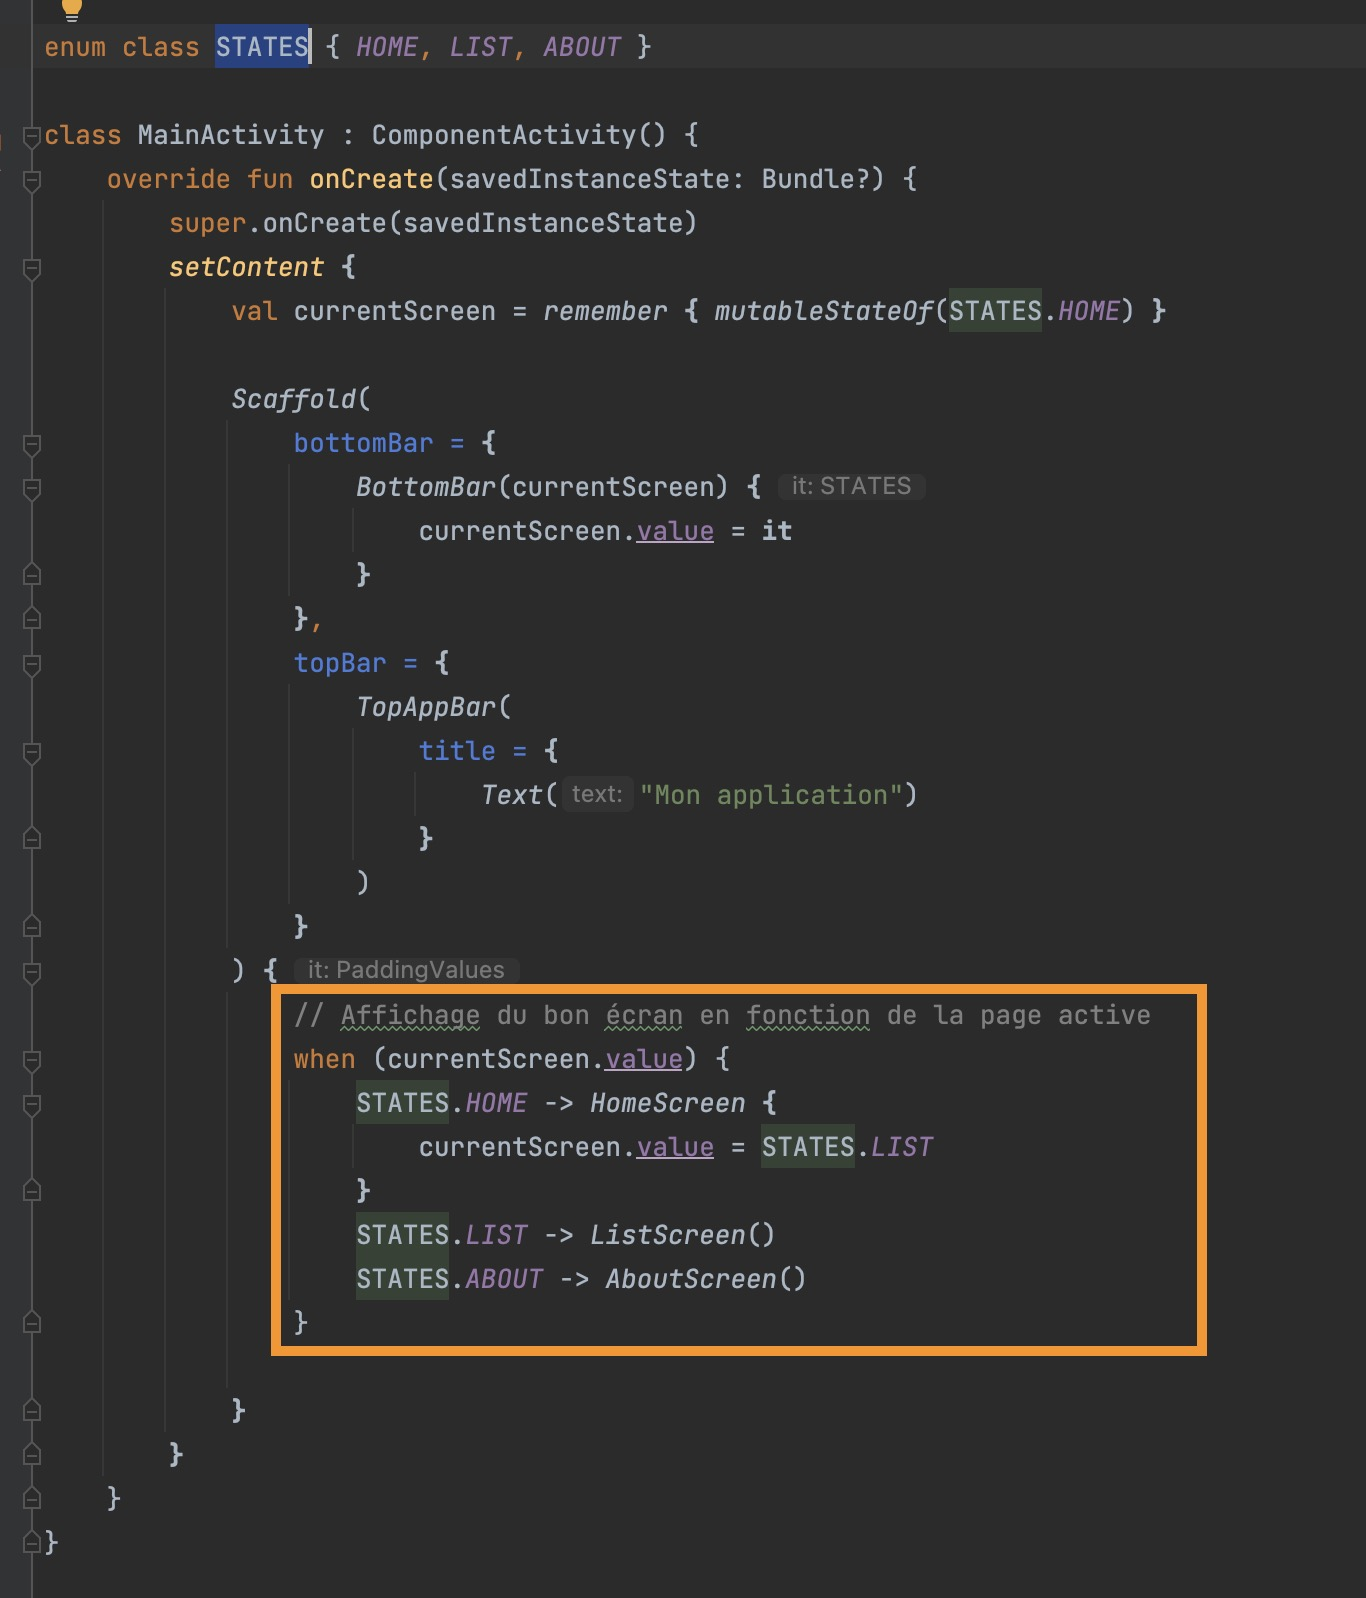
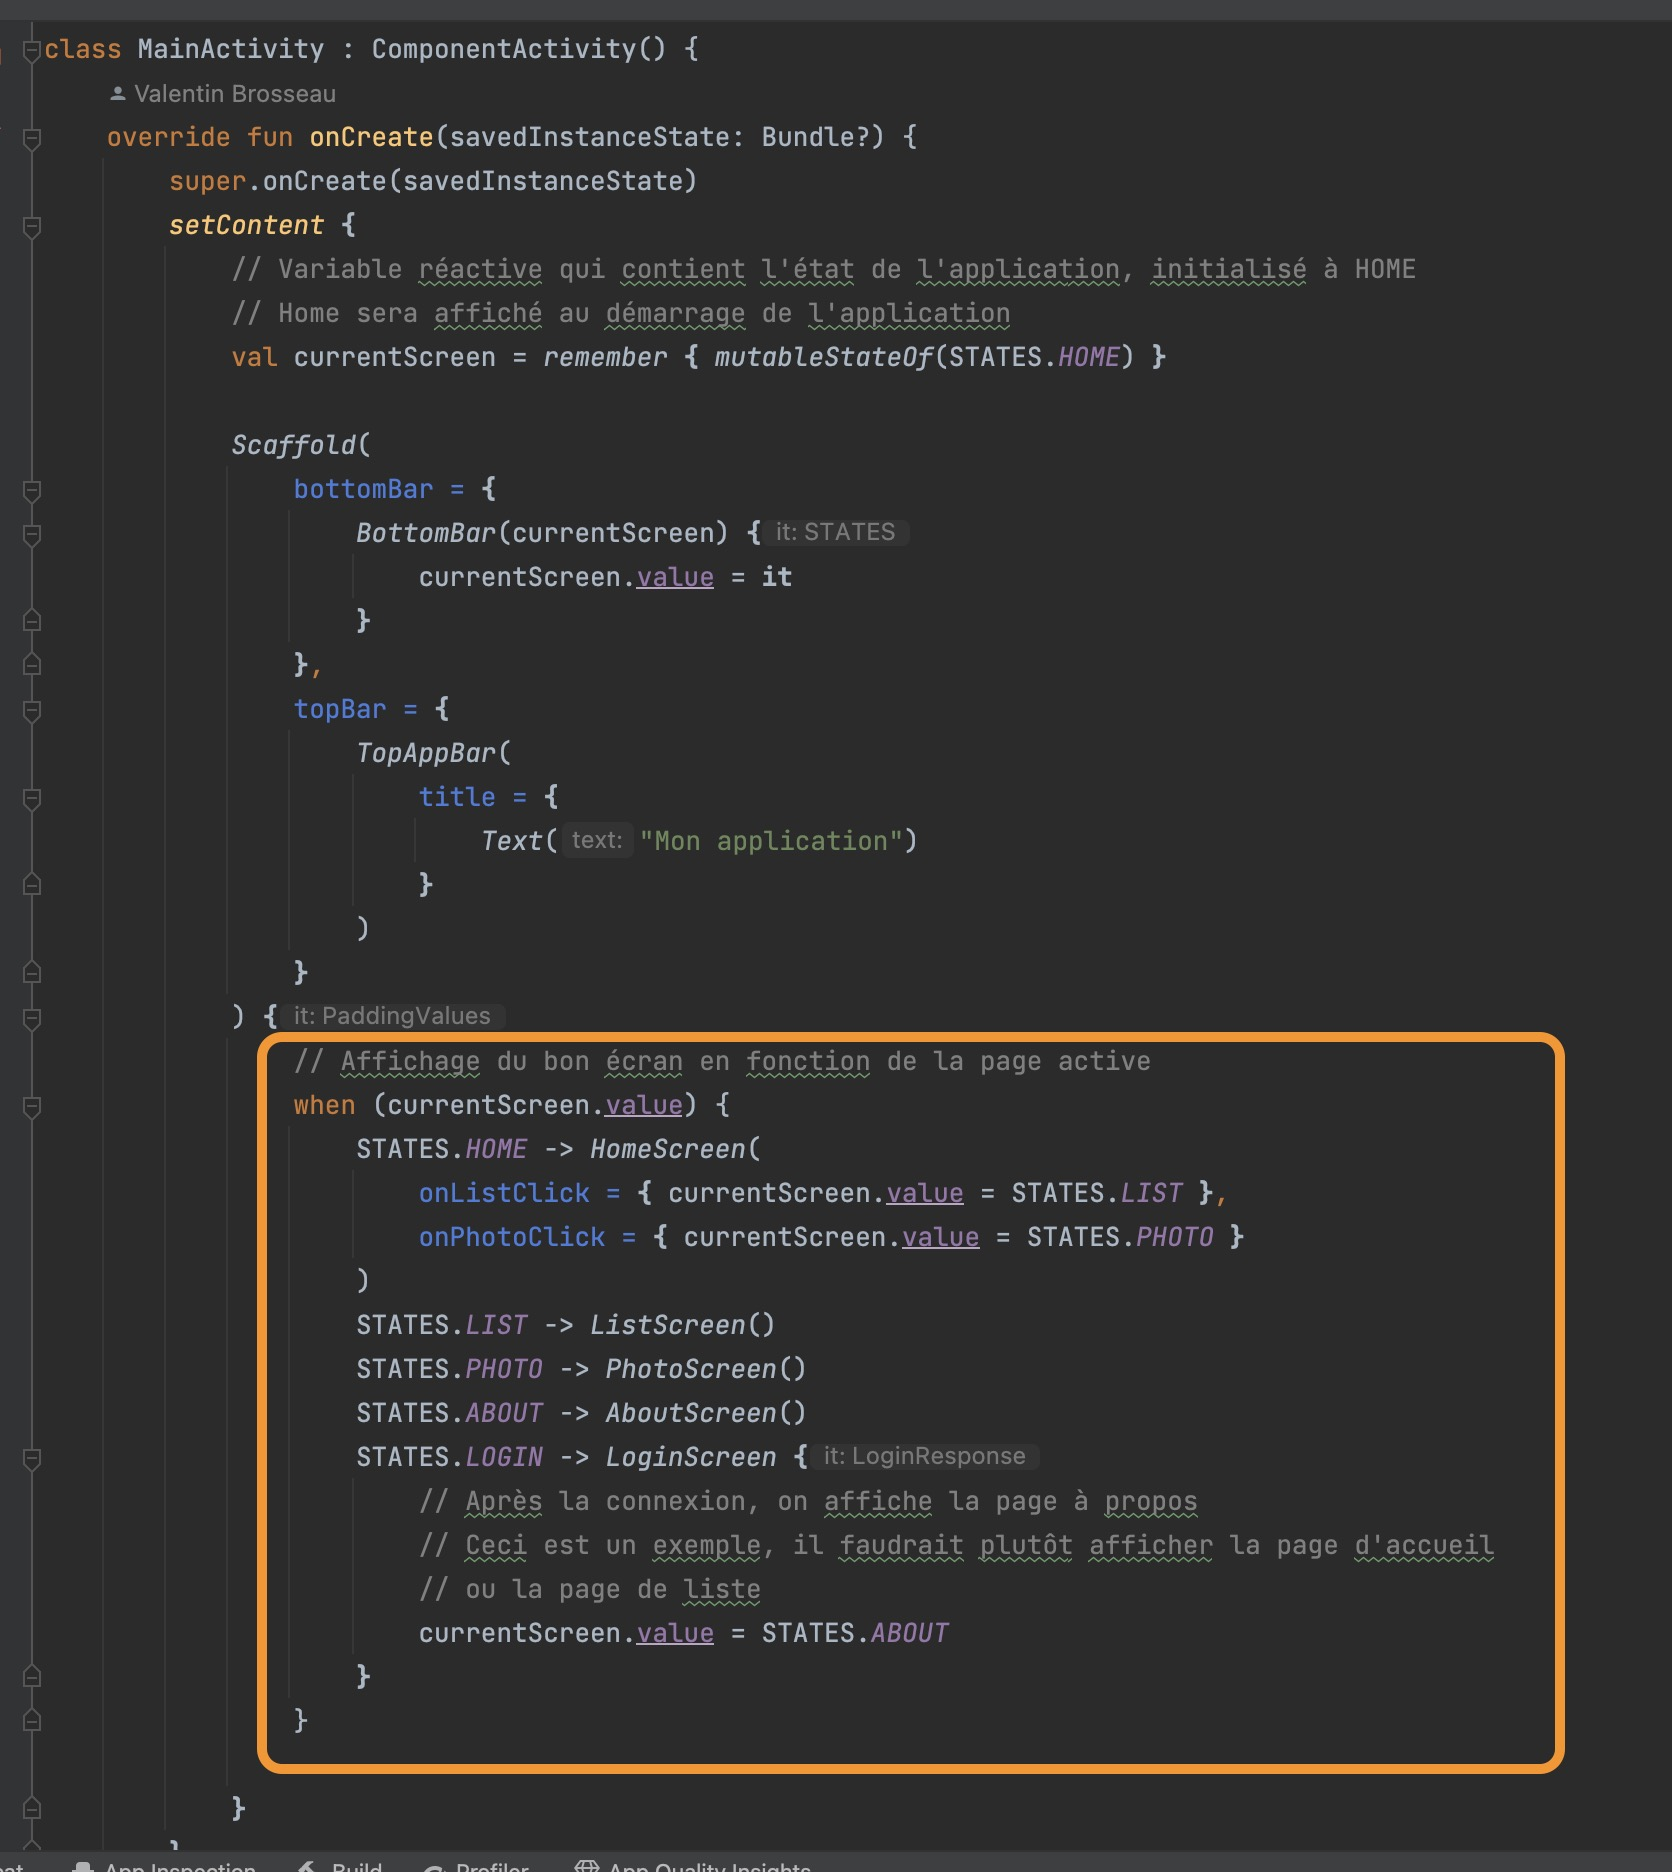
Ajout exemple connexion

diff --git a/tp/android/compose/dirty-api.md b/tp/android/compose/dirty-api.md
@@ -29,7 +29,7 @@ Cette application contient les éléments suivants :
 - Une liste de photos, les données sont récupérées depuis une API (fichier `ApiService.kt`). Les photos sont affichées en utilisant la librairie Coil.
 - Une page à propos affiche des informations sur l'application.
 
-<iframe width="560" height="315" src="https://www.youtube.com/embed/hWCIqjsTJiw" title="YouTube video player" frameborder="0" allow="accelerometer; autoplay; clipboard-write; encrypted-media; gyroscope; picture-in-picture" allowfullscreen></iframe>
+<iframe width="560" height="315" src="https://www.youtube.com/embed/Gs51sngU-3c" title="YouTube video player" frameborder="0" allow="accelerometer; autoplay; clipboard-write; encrypted-media; gyroscope; picture-in-picture" allowfullscreen></iframe>
 
 ## Prérequis
 
@@ -305,6 +305,7 @@ L'enum `STATES` est utilisé pour définir quel écran est actuellement affiché
 - `HOME`: Écran d'accueil.
 - `LIST`: Écran de liste.
 - `PHOTO`: Écran qui liste les photos.
+- `LOGIN`: Écran de connexion (deux champs).
 - `ABOUT`: Écran d'informations sur l'application.
 
 ## Rappel sur les callbacks
@@ -349,6 +350,25 @@ Les deux syntaxes sont correctes. En Kotlin il est préférable d'écrire la pre
 
 :::
 
+## L'écran de connexion
+
+Vous avez dans l'application de démo un écran de connexion. Cet écran est composé de deux champs de saisie (email et mot de passe). La connexion repose sur une API Rest.
+
+Le fonctionnement est le suivant :
+
+- L'utilisateur saisit son email et son mot de passe.
+- L'utilisateur clique sur le bouton "Connexion".
+- L'application utilise le viewModel pour appeler l'API Rest. La fonction prend 3 paramètres : l'email, le mot de passe et un callback.
+- Après l'appel de l'API le callback est appelé avec le résultat de l'appel.
+
+Vous pouvez [voir le code ici](https://github.com/c4software/project-compose-api-sample/tree/main/app/src/main/java/com/example/exemplecomposelisteapi/screens/login)
+
+::: danger Ici pas de sauvegarde de l'authentification
+L'idée ici est de voir comment naviguer entre différent écran, et de découvrir comment il est possible de lier l'ensemble (API, Navigation entre les vues, etc).
+
+La sauvegarde de l'authentification n'est donc pas traitée ici. 
+:::
+
 ## Les images (res, drawable)
 
 Sur Android les ressources de type images sont stockées dans le dossier `res/drawable`. Nativement, Compose permet de charger les images depuis ce dossier. Pour charger des images depuis une ressource distante (par exemple une image stockée sur un serveur), nous allons utiliser une librairie tierce (Coil).
@@ -357,7 +377,7 @@ Voilà la procédure pour charger des images (locales et distantes).
 
 ### Les images locales
 
-Android Compose permet de charger des images depuis un fichier localement présent dans votre applicaton (res/drawable). Pour charger une image depuis un fichier local, nous utilisons le composant `Image` :
+Android Compose permet de charger des images depuis un fichier localement présent dans votre application (res/drawable). Pour charger une image depuis un fichier local, nous utilisons le composant `Image` :
 
 ```kotlin
 Image(
